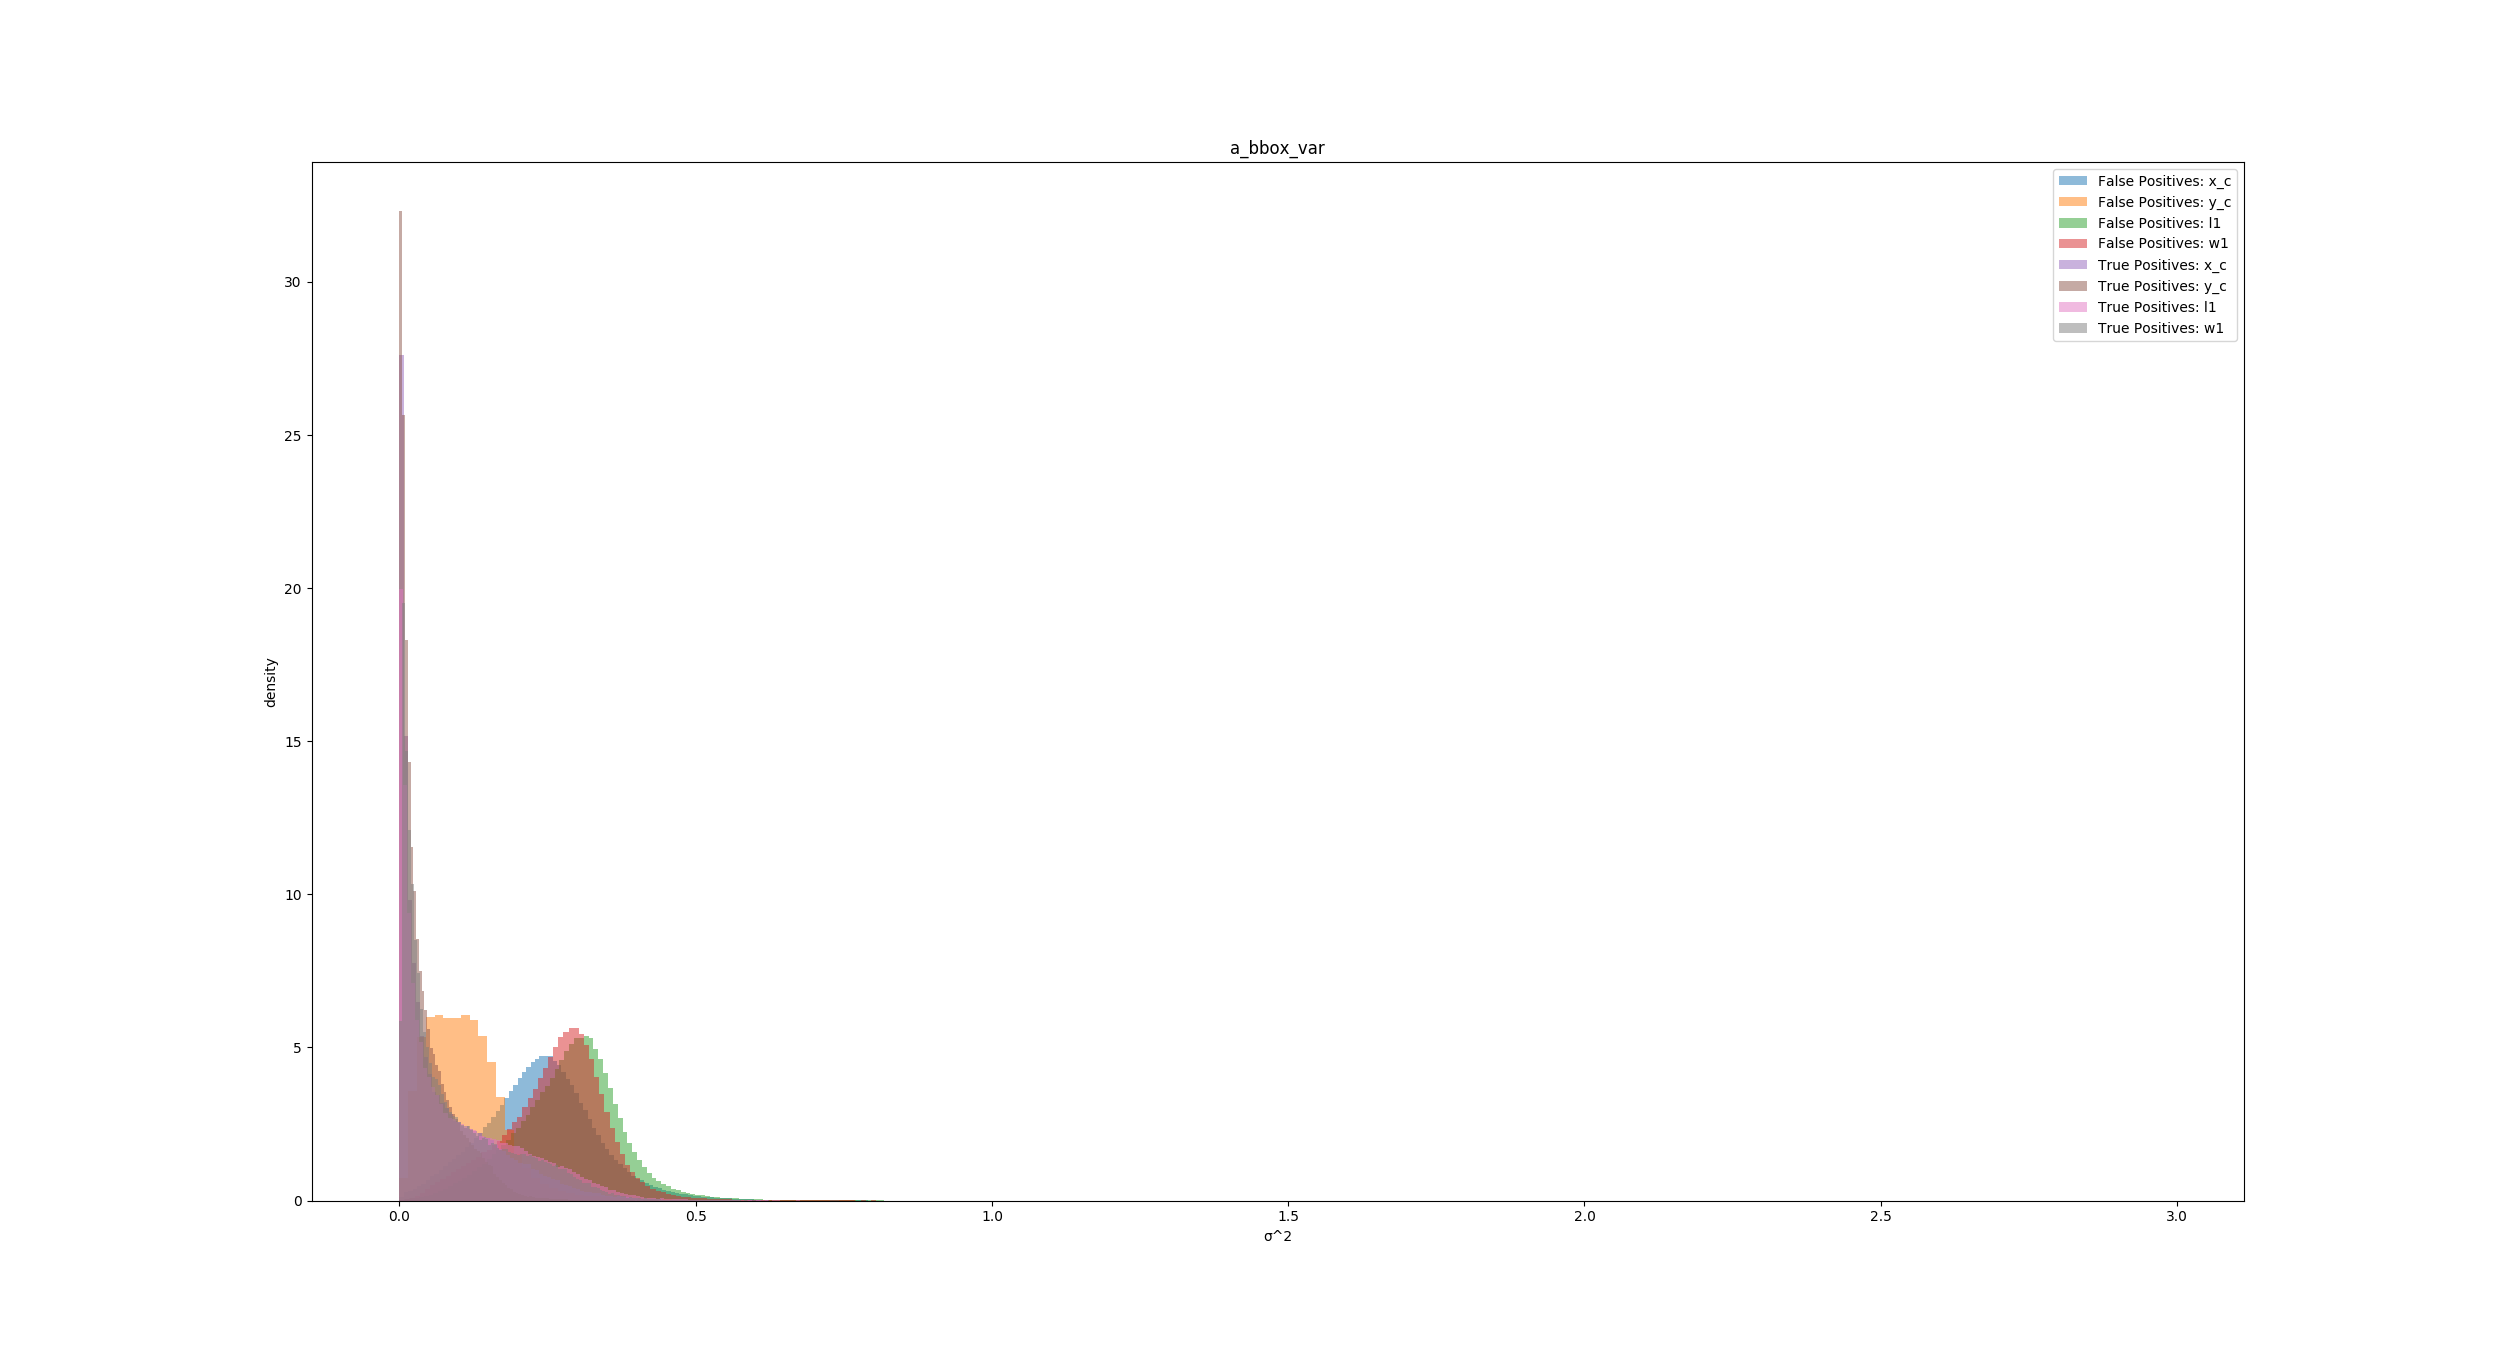
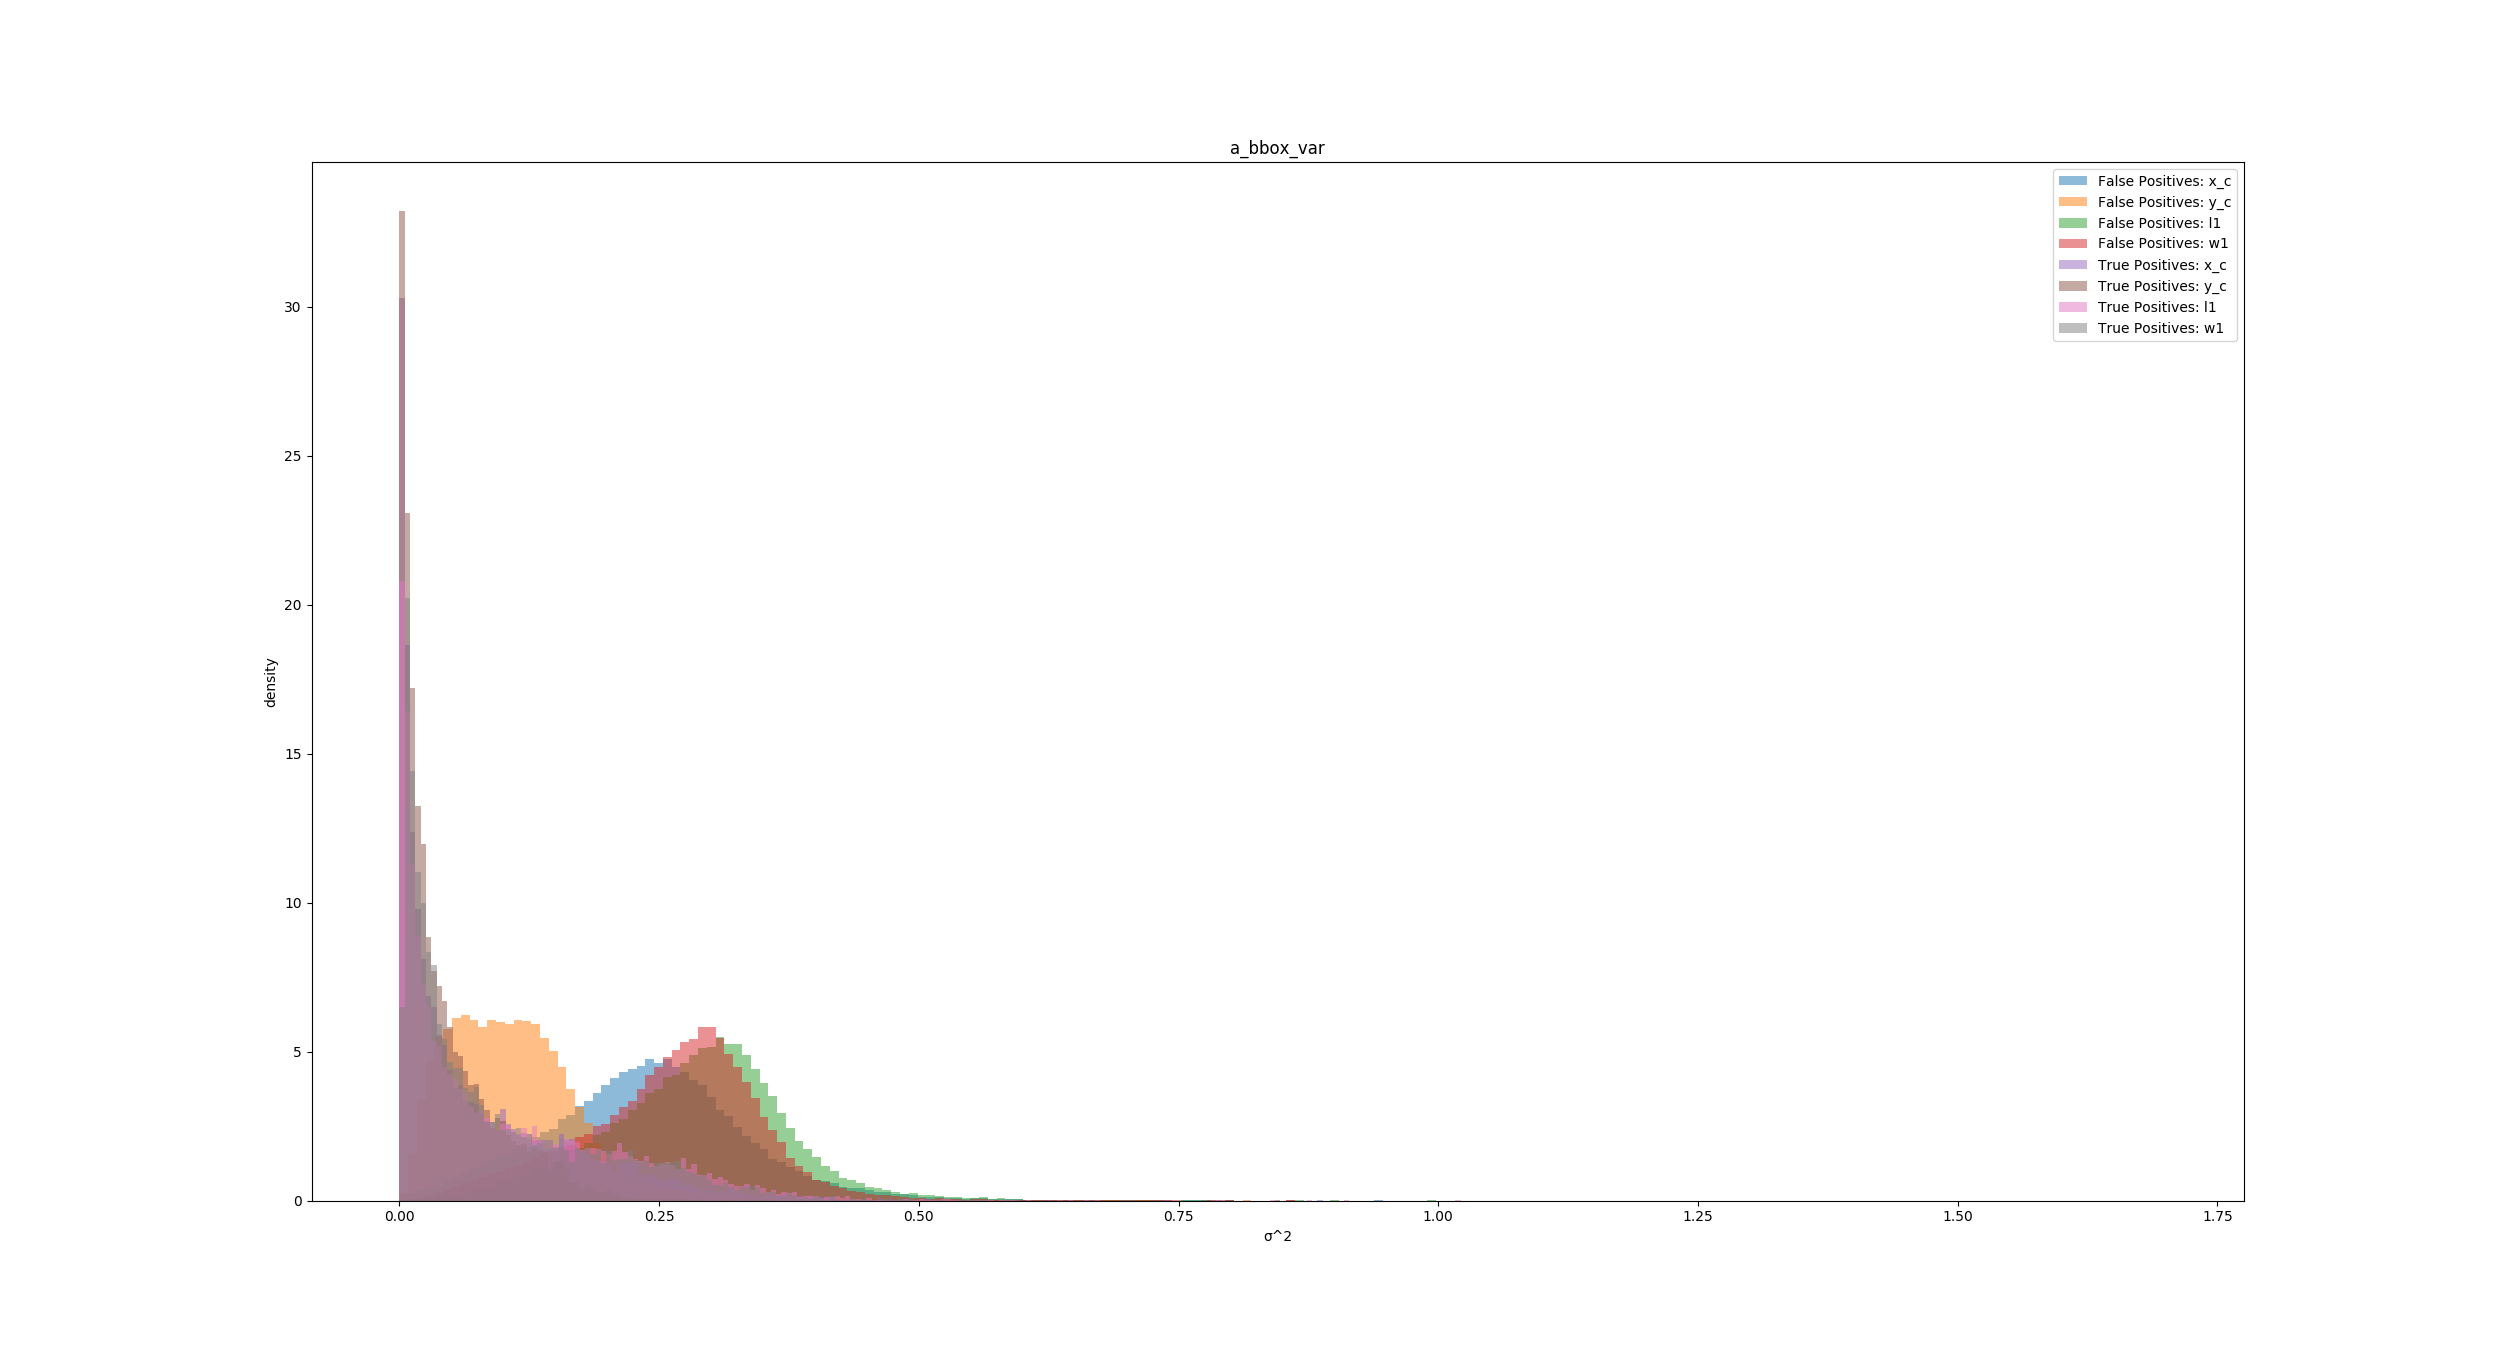
Fixed limiters

Changed region(s): [[0.1544, 0.4359, 0.4015, 0.9029]]

diff --git a/modelling_utils.py b/modelling_utils.py
@@ -389,6 +389,12 @@ def plot_box_plot(df,col,vals,plot=False):
 #Plot ROC by sweeping density_thresh
 def plot_roc_curves(df,col,vals,m_kde_tp,m_kde_fp,min_val=None,max_val=None,limiter=0):
     data = extract_columns(df,col,vals)
+    if(limiter != 0):
+        print(len(df.index))
+        frac = (limiter+0.1)/(len(df.index)+0.1)
+        df = df.sample(frac=1)
+        df = df.sample(frac=frac)
+        print(len(df.index))
     f_a  = []
     hits = []
     signal_tp = np.asarray(df['difficulty'].to_list(),dtype=np.int32)
@@ -475,7 +481,7 @@ def plot_histo_multivariate_KDE(df,plotname,col,vals,min_val=None,max_val=None,p
     else:
         min_val = np.ones((data_arr.shape[1]))*min_val
     if(max_val is None):
-        max_val = np.max(data_arr,axis=0)
+        max_val = np.ones((data_arr.shape[1]))*np.max(data_arr)
     else:
         max_val = np.ones((data_arr.shape[1]))*max_val
     ranges = np.linspace(min_val,max_val,bins)
@@ -508,6 +514,15 @@ def plot_histo_multivariate_KDE(df,plotname,col,vals,min_val=None,max_val=None,p
     h = multivariate_kernel.bw
     #Accent, Accent_r, Blues, Blues_r, BrBG, BrBG_r, BuGn, BuGn_r, BuPu, BuPu_r, CMRmap, CMRmap_r, Dark2, Dark2_r, GnBu, GnBu_r, Greens, Greens_r, Greys, Greys_r, OrRd, OrRd_r, Oranges, Oranges_r, PRGn, PRGn_r, Paired, Paired_r, Pastel1, Pastel1_r, Pastel2, Pastel2_r, PiYG, PiYG_r, PuBu, PuBuGn, PuBuGn_r, PuBu_r, PuOr, PuOr_r, PuRd, PuRd_r, Purples, Purples_r, RdBu, RdBu_r, RdGy, RdGy_r, RdPu, RdPu_r, RdYlBu, RdYlBu_r, RdYlGn, RdYlGn_r, Reds, Reds_r, Set1, Set1_r, Set2, Set2_r, Set3, Set3_r, Spectral, Spectral_r, Wistia, Wistia_r, YlGn, YlGnBu, YlGnBu_r, YlGn_r, YlOrBr, YlOrBr_r, YlOrRd, YlOrRd_r, afmhot, afmhot_r, autumn, autumn_r, binary, binary_r, bone, bone_r, brg, brg_r, bwr, bwr_r, cividis, cividis_r, cool, cool_r, coolwarm, coolwarm_r, copper, copper_r, cubehelix, cubehelix_r, flag, flag_r, gist_earth, gist_earth_r, gist_gray, gist_gray_r, gist_heat, gist_heat_r, gist_ncar, gist_ncar_r, gist_rainbow, gist_rainbow_r, gist_stern, gist_stern_r, gist_yarg, gist_yarg_r, gnuplot, gnuplot2, gnuplot2_r, gnuplot_r, gray, gray_r, hot, hot_r, hsv, hsv_r, icefire, icefire_r, inferno, inferno_r, jet, jet_r, magma, magma_r, mako, mako_r, nipy_spectral, nipy_spectral_r, ocean, ocean_r, pink, pink_r, plasma, plasma_r, prism, prism_r, rainbow, rainbow_r, rocket, rocket_r, seismic, seismic_r, spring, spring_r, summer, summer_r, tab10, tab10_r, tab20, tab20_r, tab20b, tab20b_r, tab20c, tab20c_r, terrain, terrain_r, twilight, twilight_r, twilight_shifted, twilight_shifted_r, viridis, viridis_r, vlag, vlag_r, winter, winter_r
     if(plot):
+        label_vals = []
+        for i in range(0,len(vals)):
+            if(vals[i] == 'l1' or vals[i] == 'l2'):
+                label_vals.append('l')
+            elif(vals[i] == 'w1' or vals[i] == 'w2'):
+                label_vals.append('w')
+            else:
+                label_vals.append(vals[i])
+
         #if(num_col == 1):
         #    pdf_eval = multivariate_kernel.pdf(ranges)
         #    if(vals is None):
@@ -529,13 +544,14 @@ def plot_histo_multivariate_KDE(df,plotname,col,vals,min_val=None,max_val=None,p
                 c_map = 'Reds'
             else:
                 c_map = 'Accent'
-                contour_name = '{}, {}'.format(col,vals)
+                contour_name = '{}, {}'.format(col,label_vals)
             contour = plt.contourf(x_list[:,:,0],x_list[:,:,1],pdf_eval, cmap=c_map, label=contour_name, alpha=0.5)
             #plt.clabel(contour, inline=True, fontsize=8)#
             #plt.imshow(pdf_eval, extent=[0, np.max(x_list[:,:,0])*0.80, 0, np.max(x_list[:,:,1])*0.80], origin='lower',
             #cmap=c_map, alpha=0.5)
-            plt.xlabel('\u03C3[{}]^2'.format(vals[0]))
-            plt.ylabel('\u03C3[{}]^2'.format(vals[1]))
+            #Gross, eh? :)
+            plt.xlabel('\u03C3[{}]^2'.format(label_vals[0]))
+            plt.ylabel('\u03C3[{}]^2'.format(label_vals[1]))
             plt.title(col)
             clb = plt.colorbar()
             clb.ax.set_title(contour_name,pad=20)
@@ -545,7 +561,7 @@ def plot_histo_multivariate_KDE(df,plotname,col,vals,min_val=None,max_val=None,p
             elif(plotname == 'FP'):
                 plotname = 'False Positives'
             for i in range(0,data_arr.shape[1]):
-                labelname = plotname + ': ' + vals[i]
+                labelname = plotname + ': ' + label_vals[i]
                 plt.hist(data_arr[:,i],bins=200,range=(min_val[i],max_val[i]),alpha=0.5,label=labelname,density=True,stacked=True) 
             plt.xlabel('\u03C3^2')
             plt.ylabel('density')

diff --git a/evaluate_uncertainty.py b/evaluate_uncertainty.py
@@ -380,6 +380,7 @@ def get_df(dataset,cache_dir,dets_file,data_dir,sensor_type,limiter=0):
         if(limiter != 0):
             print(len(df.index))
             frac = (limiter+0.1)/(len(df.index)+0.1)
+            df = df.sample(frac=1)
             df = df.sample(frac=frac)
             print(len(df.index))
         return df
@@ -419,7 +420,7 @@ if __name__ == '__main__':
         gt_file = os.path.join(data_dir,'val','labels','{}_labels.json'.format(args.sensor_type))
     else:
         gt_file = ''
-    df = get_df(args.dataset,args.cache_dir,args.det_file_1,data_dir,args.sensor_type,limiter=0)
+    df = get_df(args.dataset,args.cache_dir,args.det_file_1,data_dir,args.sensor_type,limiter=100000)
 
     #-------------------------
     # Example filters for data
@@ -498,14 +499,14 @@ if __name__ == '__main__':
     #------------------------
     # Mat's Custom Script
     #------------------------
-    #param  = 'all_var'
+    param  = 'all_var'
     #param = 'e_bbox_var,a_bbox_var'
     #param  = 'e_cls_var,a_cls_var'
-    param = 'a_bbox_var'
+    #param = 'a_cls_var'
     #vals = ['w1']
     #vals  = ['l1','w1']
-    #vals = ['fg','bg']
-    vals = ['x_c','y_c']
+    #vals = ['bg']
+    #vals = ['x_c','y_c','l1','w1']
     #vals = ['w1']
     #vals = ['x_c','y_c','z_c','l2','w2','h','r_y']
     #vals  = ['bg']
@@ -514,23 +515,23 @@ if __name__ == '__main__':
     #vals = ['e_x_c','e_y_c','e_z_c','e_l2','e_w2','e_h','e_r_y','e_fg','e_bg','a_x_c','a_y_c','a_z_c','a_l2','a_w2','a_h','a_r_y','a_fg','a_bg']
     #vals = ['e_fg','e_bg','a_fg','a_bg']
     #vals = ['e_x_c','e_y_c','e_z_c','e_l2','e_w2','e_h','e_r_y','a_x_c','a_y_c','a_z_c','a_l2','a_w2','a_h','a_r_y']
-    #vals = ['e_x_c','e_y_c','e_l','e_w','a_x_c','a_y_c','a_l','a_w','e_fg','e_bg','a_fg','a_bg']
+    vals = ['e_x_c','e_y_c','e_l','e_w','e_fg','e_bg','a_x_c','a_y_c','a_l','a_w','a_fg','a_bg']
     #kstest   = modelling_utils.run_kstest(df_tp,df_fp,param,vals,sum_vals=True)
     is_summed = False
     kldiv = modelling_utils.run_kldiv(df_tp,df_fp,param,vals,sum_vals=is_summed)
     print('kldiv: {} summed: {}'.format(kldiv,is_summed))
     #jsdiv = modelling_utils.run_jsdiv(df_tp,df_fp,param,vals,sum_vals=False)
     #print('kstest: {} kldiv: {} jsdiv {}'.format(kstest,kldiv,np.sum(jsdiv)))
-    #box_stats = modelling_utils.plot_box_plot(df,param,vals,plot=False)
-    #print('box_plot: mean: {:.3f} median: {:.3f} [Q1,Q3]: [{:.3f},{:.3f}] [min,max]: [{:.3f},{:.3f}]'.format(box_stats[0],box_stats[1],box_stats[2],box_stats[3],box_stats[4],box_stats[5]))
+    box_stats = modelling_utils.plot_box_plot(df,param,vals,plot=False)
+    print('box_plot: mean: {:.3f} median: {:.3f} [Q1,Q3]: [{:.3f},{:.3f}] [min,max]: [{:.3f},{:.3f}]'.format(box_stats[0],box_stats[1],box_stats[2],box_stats[3],box_stats[4],box_stats[5]))
     #plt.rcParams.update({'font.size': 16})
-    m_kde_fp = modelling_utils.plot_histo_multivariate_KDE(df_fp,'FP',param,vals,min_val=0, plot=True)
-    m_kde_tp = modelling_utils.plot_histo_multivariate_KDE(df_tp,'TP',param,vals,min_val=0, plot=True)
+    m_kde_fp = modelling_utils.plot_histo_multivariate_KDE(df_fp,'FP',param,vals,min_val=0, plot=False, bins=200)
+    m_kde_tp = modelling_utils.plot_histo_multivariate_KDE(df_tp,'TP',param,vals,min_val=0, plot=False, bins=200)
 
-    #m_kde = modelling_utils.plot_histo_multivariate_KDE(df,'All',param,vals,min_val=0, plot=False)
-    #modelling_utils.plot_roc_curves(df,param,vals,m_kde_tp,m_kde_fp,limiter=10000)
-    #plt.legend()
-    #plt.show()
+    m_kde = modelling_utils.plot_histo_multivariate_KDE(df,'All',param,vals,min_val=0, plot=False)
+    modelling_utils.plot_roc_curves(df,param,vals,m_kde_tp,m_kde_fp,limiter=10000)
+    plt.legend()
+    plt.show()
 
     #-------------------------
     # Misc
